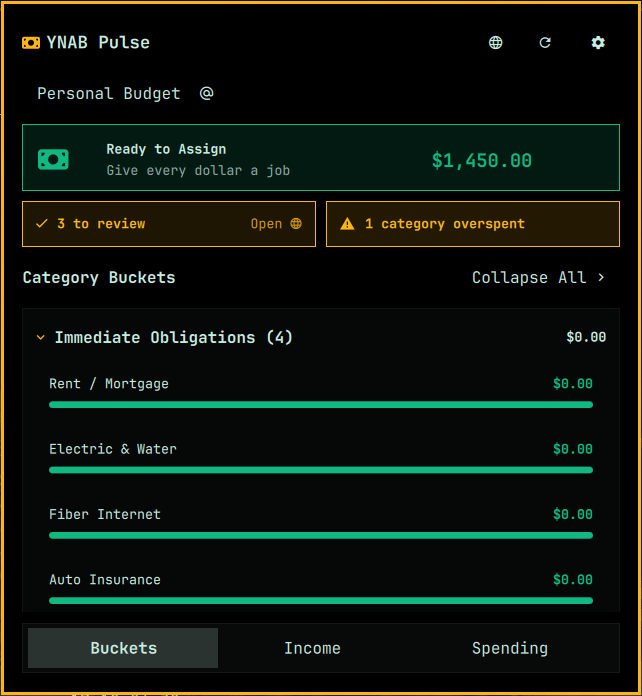
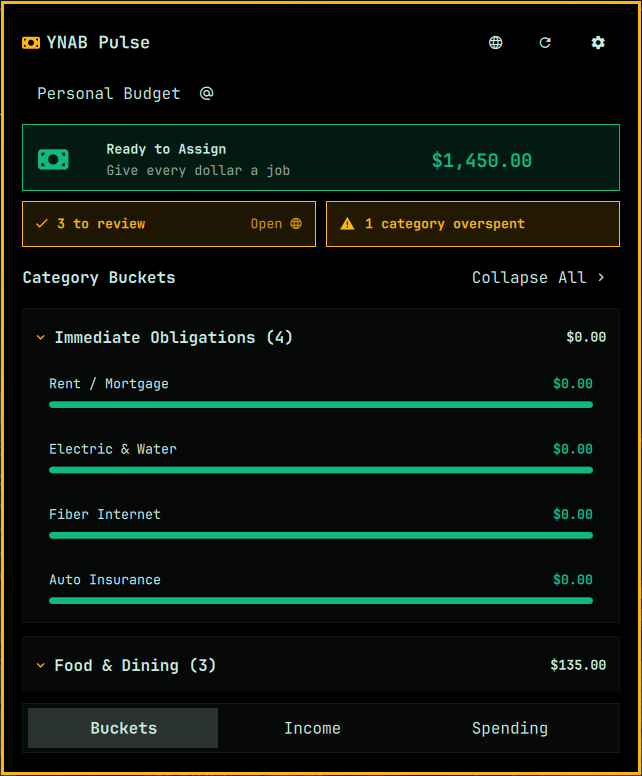
fix(panel): restore the original 580px card height
The overflow clamp had dropped the desired height from 580 to 520, which
cut the buckets list and settings footer. Keep the screen clamp, but size
the card to the original 580 again.

diff --git a/tests/panel-layout.test.js b/tests/panel-layout.test.js
@@ -20,8 +20,8 @@ check("card width uses KeyboardPanel.fittedContentWidth",
   /contentWidth:\s*keyboardPanel\.fittedContentWidth\(Style\.space\(480\)\)/.test(panel),
   "expected contentWidth: keyboardPanel.fittedContentWidth(Style.space(480))")
 check("card height uses KeyboardPanel.cappedContentHeight",
-  /contentHeight:\s*keyboardPanel\.cappedContentHeight\(Style\.space\(520\)\)/.test(panel),
-  "expected contentHeight: keyboardPanel.cappedContentHeight(Style.space(520))")
+  /contentHeight:\s*keyboardPanel\.cappedContentHeight\(Style\.space\(580\)\)/.test(panel),
+  "expected contentHeight: keyboardPanel.cappedContentHeight(Style.space(580))")
 check("panel does not reimplement availableCard* clamping",
   !/availableCardWidth/.test(panel) && !/availableCardHeight/.test(panel),
   "hand-rolled availableCard* clamp is still in Panel.qml")

diff --git a/Panel.qml b/Panel.qml
@@ -174,7 +174,7 @@ Panel {
     owner: root.barIdentity
     open: root.opened
     contentWidth: keyboardPanel.fittedContentWidth(Style.space(480))
-    contentHeight: keyboardPanel.cappedContentHeight(Style.space(520))
+    contentHeight: keyboardPanel.cappedContentHeight(Style.space(580))
     focusTarget: keyCatcher
 
     PanelKeyCatcher {
